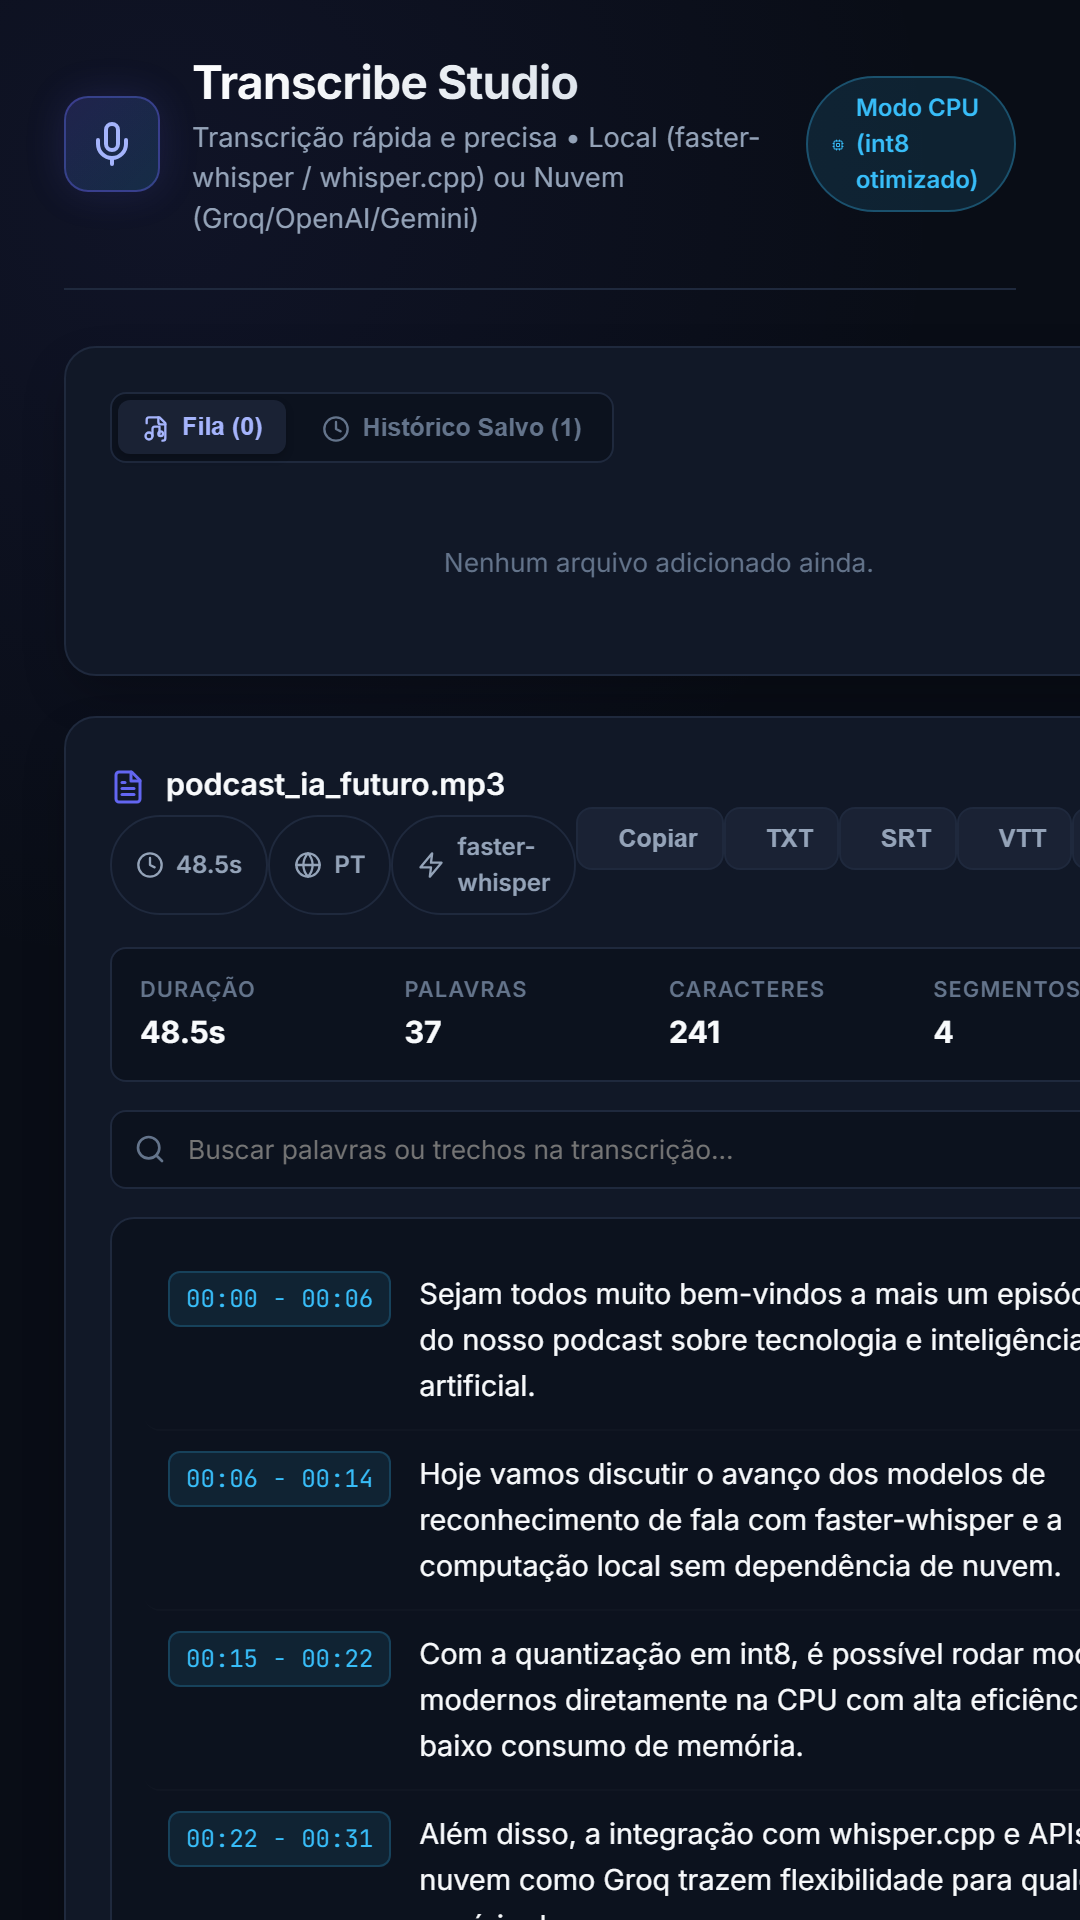
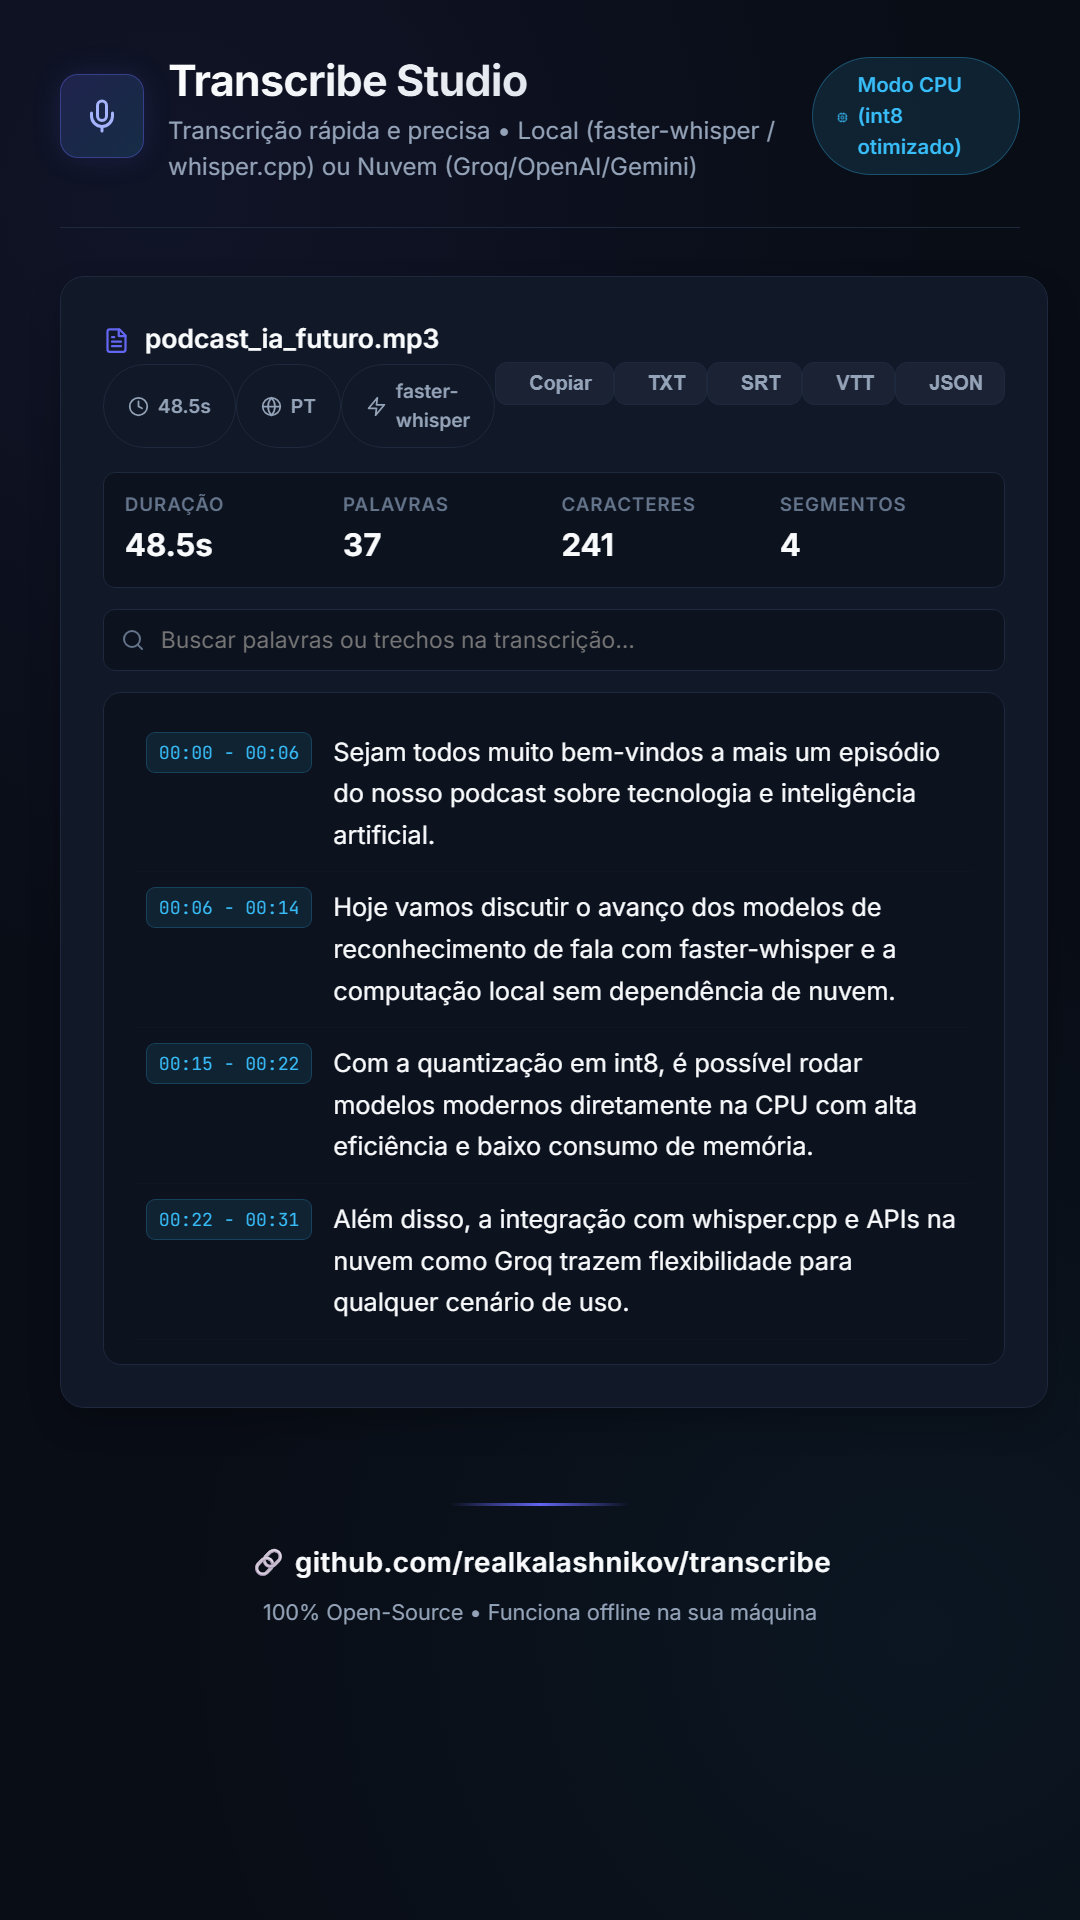
feat(ui): refine story mode layout and update full-height screenshots

diff --git a/app/static/css/style.css b/app/static/css/style.css
@@ -978,6 +978,119 @@ label {
     }
 }
 
+/* ============================
+   Story Mode (9:16 vertical)
+   ============================ */
+body.story-mode .control-panel {
+    display: none !important;
+}
+
+body.story-mode .main-grid {
+    grid-template-columns: 1fr;
+}
+
+body.story-mode .app-container {
+    max-width: 100%;
+    padding: 32px 40px;
+}
+
+body.story-mode .app-header {
+    padding-bottom: 28px;
+    margin-bottom: 32px;
+}
+
+body.story-mode .brand h1 {
+    font-size: 1.8rem;
+}
+
+body.story-mode .subtitle {
+    font-size: 1rem;
+}
+
+body.story-mode .brand-icon-wrapper {
+    width: 56px;
+    height: 56px;
+}
+
+body.story-mode .badge {
+    font-size: 0.85rem;
+    padding: 8px 16px;
+}
+
+body.story-mode .card {
+    padding: 28px;
+    margin-bottom: 24px;
+}
+
+body.story-mode .card-title {
+    font-size: 1.1rem;
+}
+
+body.story-mode .panel-tab-btn {
+    font-size: 0.95rem;
+    padding: 10px 18px;
+}
+
+body.story-mode .meta-tags .badge {
+    font-size: 0.8rem;
+}
+
+body.story-mode .stat-value {
+    font-size: 1.3rem;
+}
+
+body.story-mode .stat-label {
+    font-size: 0.78rem;
+}
+
+body.story-mode .segment-text {
+    font-size: 1.05rem;
+    line-height: 1.65;
+}
+
+body.story-mode .segment-time {
+    font-size: 0.82rem;
+}
+
+body.story-mode .search-input {
+    font-size: 0.95rem;
+}
+
+body.story-mode .export-actions .btn {
+    font-size: 0.82rem;
+    padding: 6px 14px;
+}
+
+body.story-mode .queue-card {
+    display: none !important;
+}
+
+/* Story Footer */
+.story-footer {
+    text-align: center;
+    padding: 40px 20px 20px;
+}
+
+.story-footer-line {
+    width: 120px;
+    height: 2px;
+    background: linear-gradient(90deg, transparent, var(--primary), transparent);
+    margin: 0 auto 24px;
+}
+
+.story-footer-text {
+    font-size: 1.15rem;
+    font-weight: 600;
+    color: var(--text-main);
+    letter-spacing: 0.02em;
+    margin-bottom: 8px;
+}
+
+.story-footer-sub {
+    font-size: 0.9rem;
+    color: var(--text-muted);
+}
+
 .hidden {
     display: none !important;
 }

diff --git a/app/static/js/app.js b/app/static/js/app.js
@@ -125,8 +125,16 @@ document.addEventListener("DOMContentLoaded", () => {
         }
 
         if (params.get("story")) {
-            const controlPanel = document.querySelector(".control-panel");
-            if (controlPanel) controlPanel.style.display = "none";
+            document.body.classList.add("story-mode");
+            // Adiciona rodapé com link do GitHub para contexto no Story
+            const footer = document.createElement("div");
+            footer.className = "story-footer";
+            footer.innerHTML = `
+                <div class="story-footer-line"></div>
+                <p class="story-footer-text">🔗 github.com/realkalashnikov/transcribe</p>
+                <p class="story-footer-sub">100% Open-Source • Funciona offline na sua máquina</p>
+            `;
+            document.querySelector(".app-container").appendChild(footer);
         }
 
         if (window.AppIcons) window.AppIcons.renderAll();

diff --git a/scripts/take_screenshots.py b/scripts/take_screenshots.py
@@ -83,8 +83,8 @@ def main():
         transcription_png = SCREENSHOTS_DIR / "transcription_view.png"
         story_png = SCREENSHOTS_DIR / "story_status.png"
         
-        # 1. 16:9 Feed Format (LinkedIn, Twitter, Facebook Feed) - 1600x900 com proporção perfeita
-        print(f"[3/5] Capturando preview em {preview_png} (16:9 Feed 1600x900)...")
+        # 1. 16:9 Feed Format (LinkedIn, Twitter, Facebook Feed) - 1600x1100 para capturar UI completa
+        print(f"[3/5] Capturando preview em {preview_png} (Feed 1600x1100)...")
         edge_cmd1 = [
             EDGE_PATH,
             "--headless",
@@ -92,7 +92,7 @@ def main():
             "--no-first-run",
             "--no-default-browser-check",
             "--hide-scrollbars",
-            "--window-size=1600,900",
+            "--window-size=1600,1300",
             "--force-device-scale-factor=1.15",
             f"--screenshot={str(preview_png)}",
             "http://127.0.0.1:8008"
@@ -100,8 +100,8 @@ def main():
         subprocess.run(edge_cmd1, check=True)
         print(" -> preview.png capturado!")
 
-        # 2. 16:9 Feed Format com Transcrição ativa e Player
-        print(f"[4/5] Capturando transcrição ativa em {transcription_png} (16:9 Feed 1600x900)...")
+        # 2. Feed Format com Transcrição ativa e Player
+        print(f"[4/5] Capturando transcrição ativa em {transcription_png} (Feed 1600x1100)...")
         edge_cmd2 = [
             EDGE_PATH,
             "--headless",
@@ -109,7 +109,7 @@ def main():
             "--no-first-run",
             "--no-default-browser-check",
             "--hide-scrollbars",
-            "--window-size=1600,900",
+            "--window-size=1600,1100",
             "--force-device-scale-factor=1.15",
             f"--screenshot={str(transcription_png)}",
             "http://127.0.0.1:8008/?demo=1"
@@ -117,8 +117,8 @@ def main():
         subprocess.run(edge_cmd2, check=True)
         print(" -> transcription_view.png capturado!")
 
-        # 3. 9:16 Vertical Format para WhatsApp Status, Instagram Stories e Facebook Stories (1080x1920)
-        print(f"[5/5] Capturando formato vertical Story/Status em {story_png} (9:16 1080x1920)...")
+        # 3. 9:16 Vertical Format para WhatsApp Status, Instagram Stories e Facebook Stories
+        print(f"[5/5] Capturando formato vertical Story/Status em {story_png} (9:16 vertical)...")
         edge_cmd3 = [
             EDGE_PATH,
             "--headless",
@@ -126,8 +126,8 @@ def main():
             "--no-first-run",
             "--no-default-browser-check",
             "--hide-scrollbars",
-            "--window-size=540,960",
-            "--force-device-scale-factor=2.0",
+            "--window-size=720,1280",
+            "--force-device-scale-factor=1.5",
             f"--screenshot={str(story_png)}",
             "http://127.0.0.1:8008/?demo=1&story=1"
         ]
